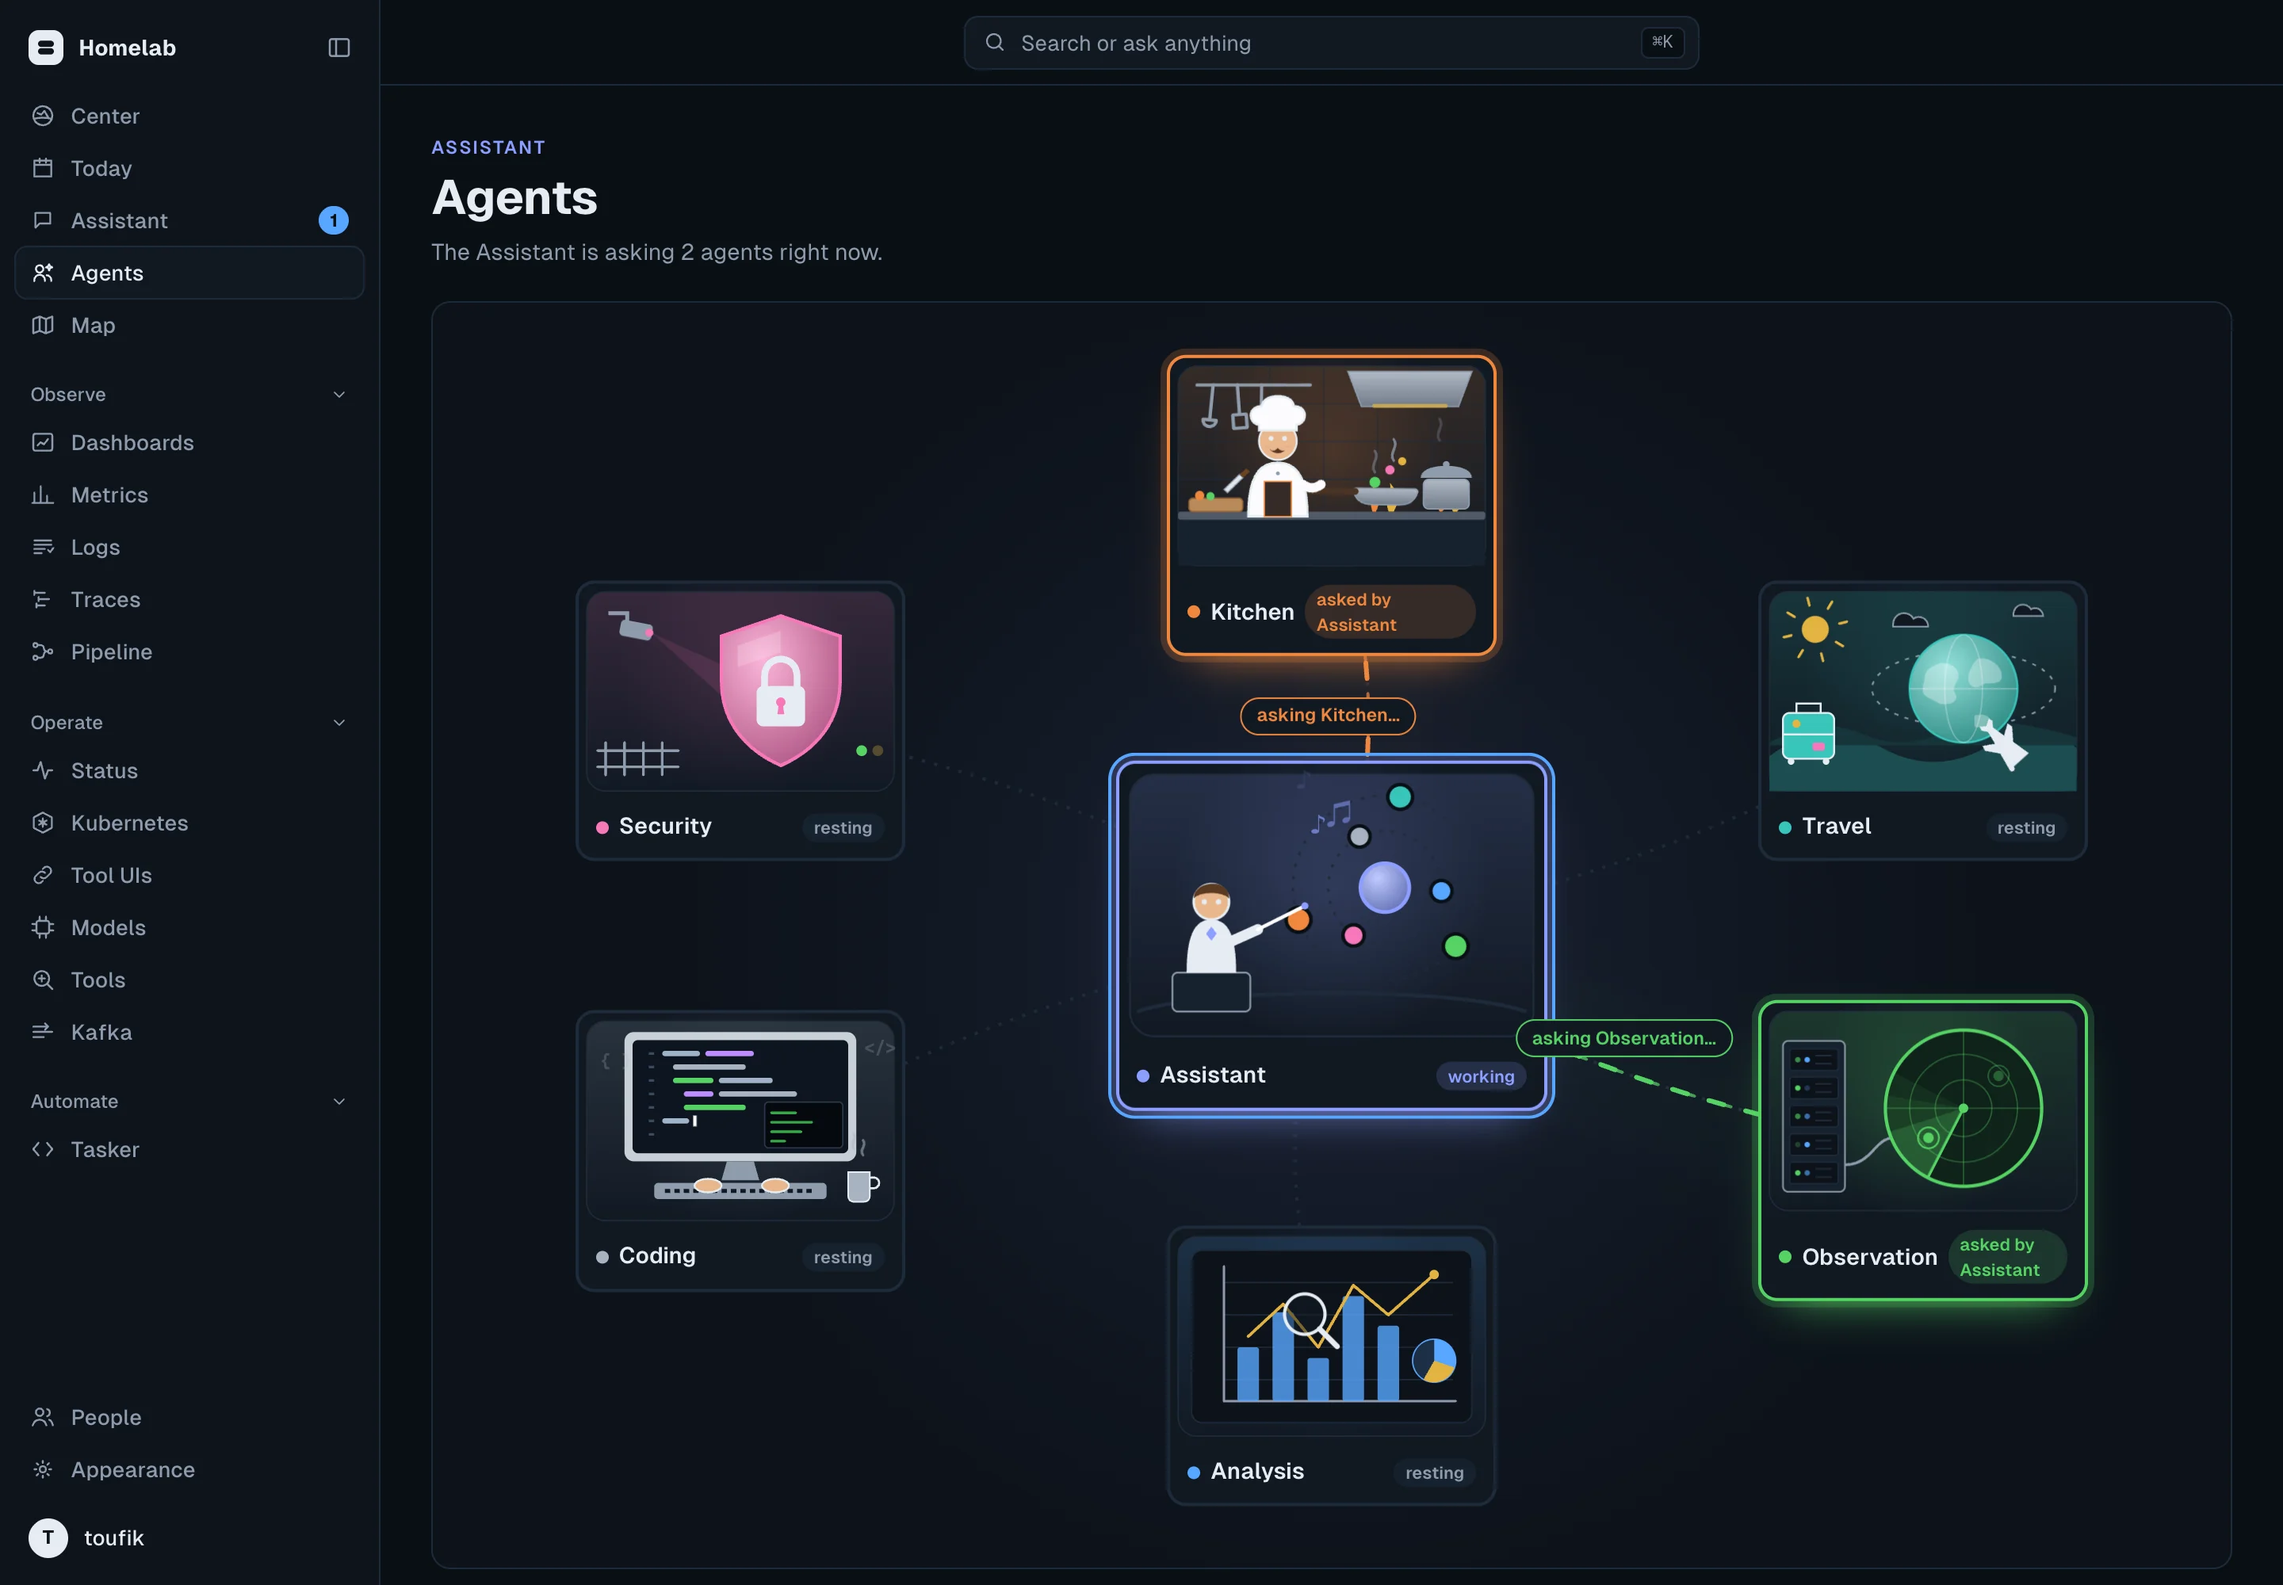
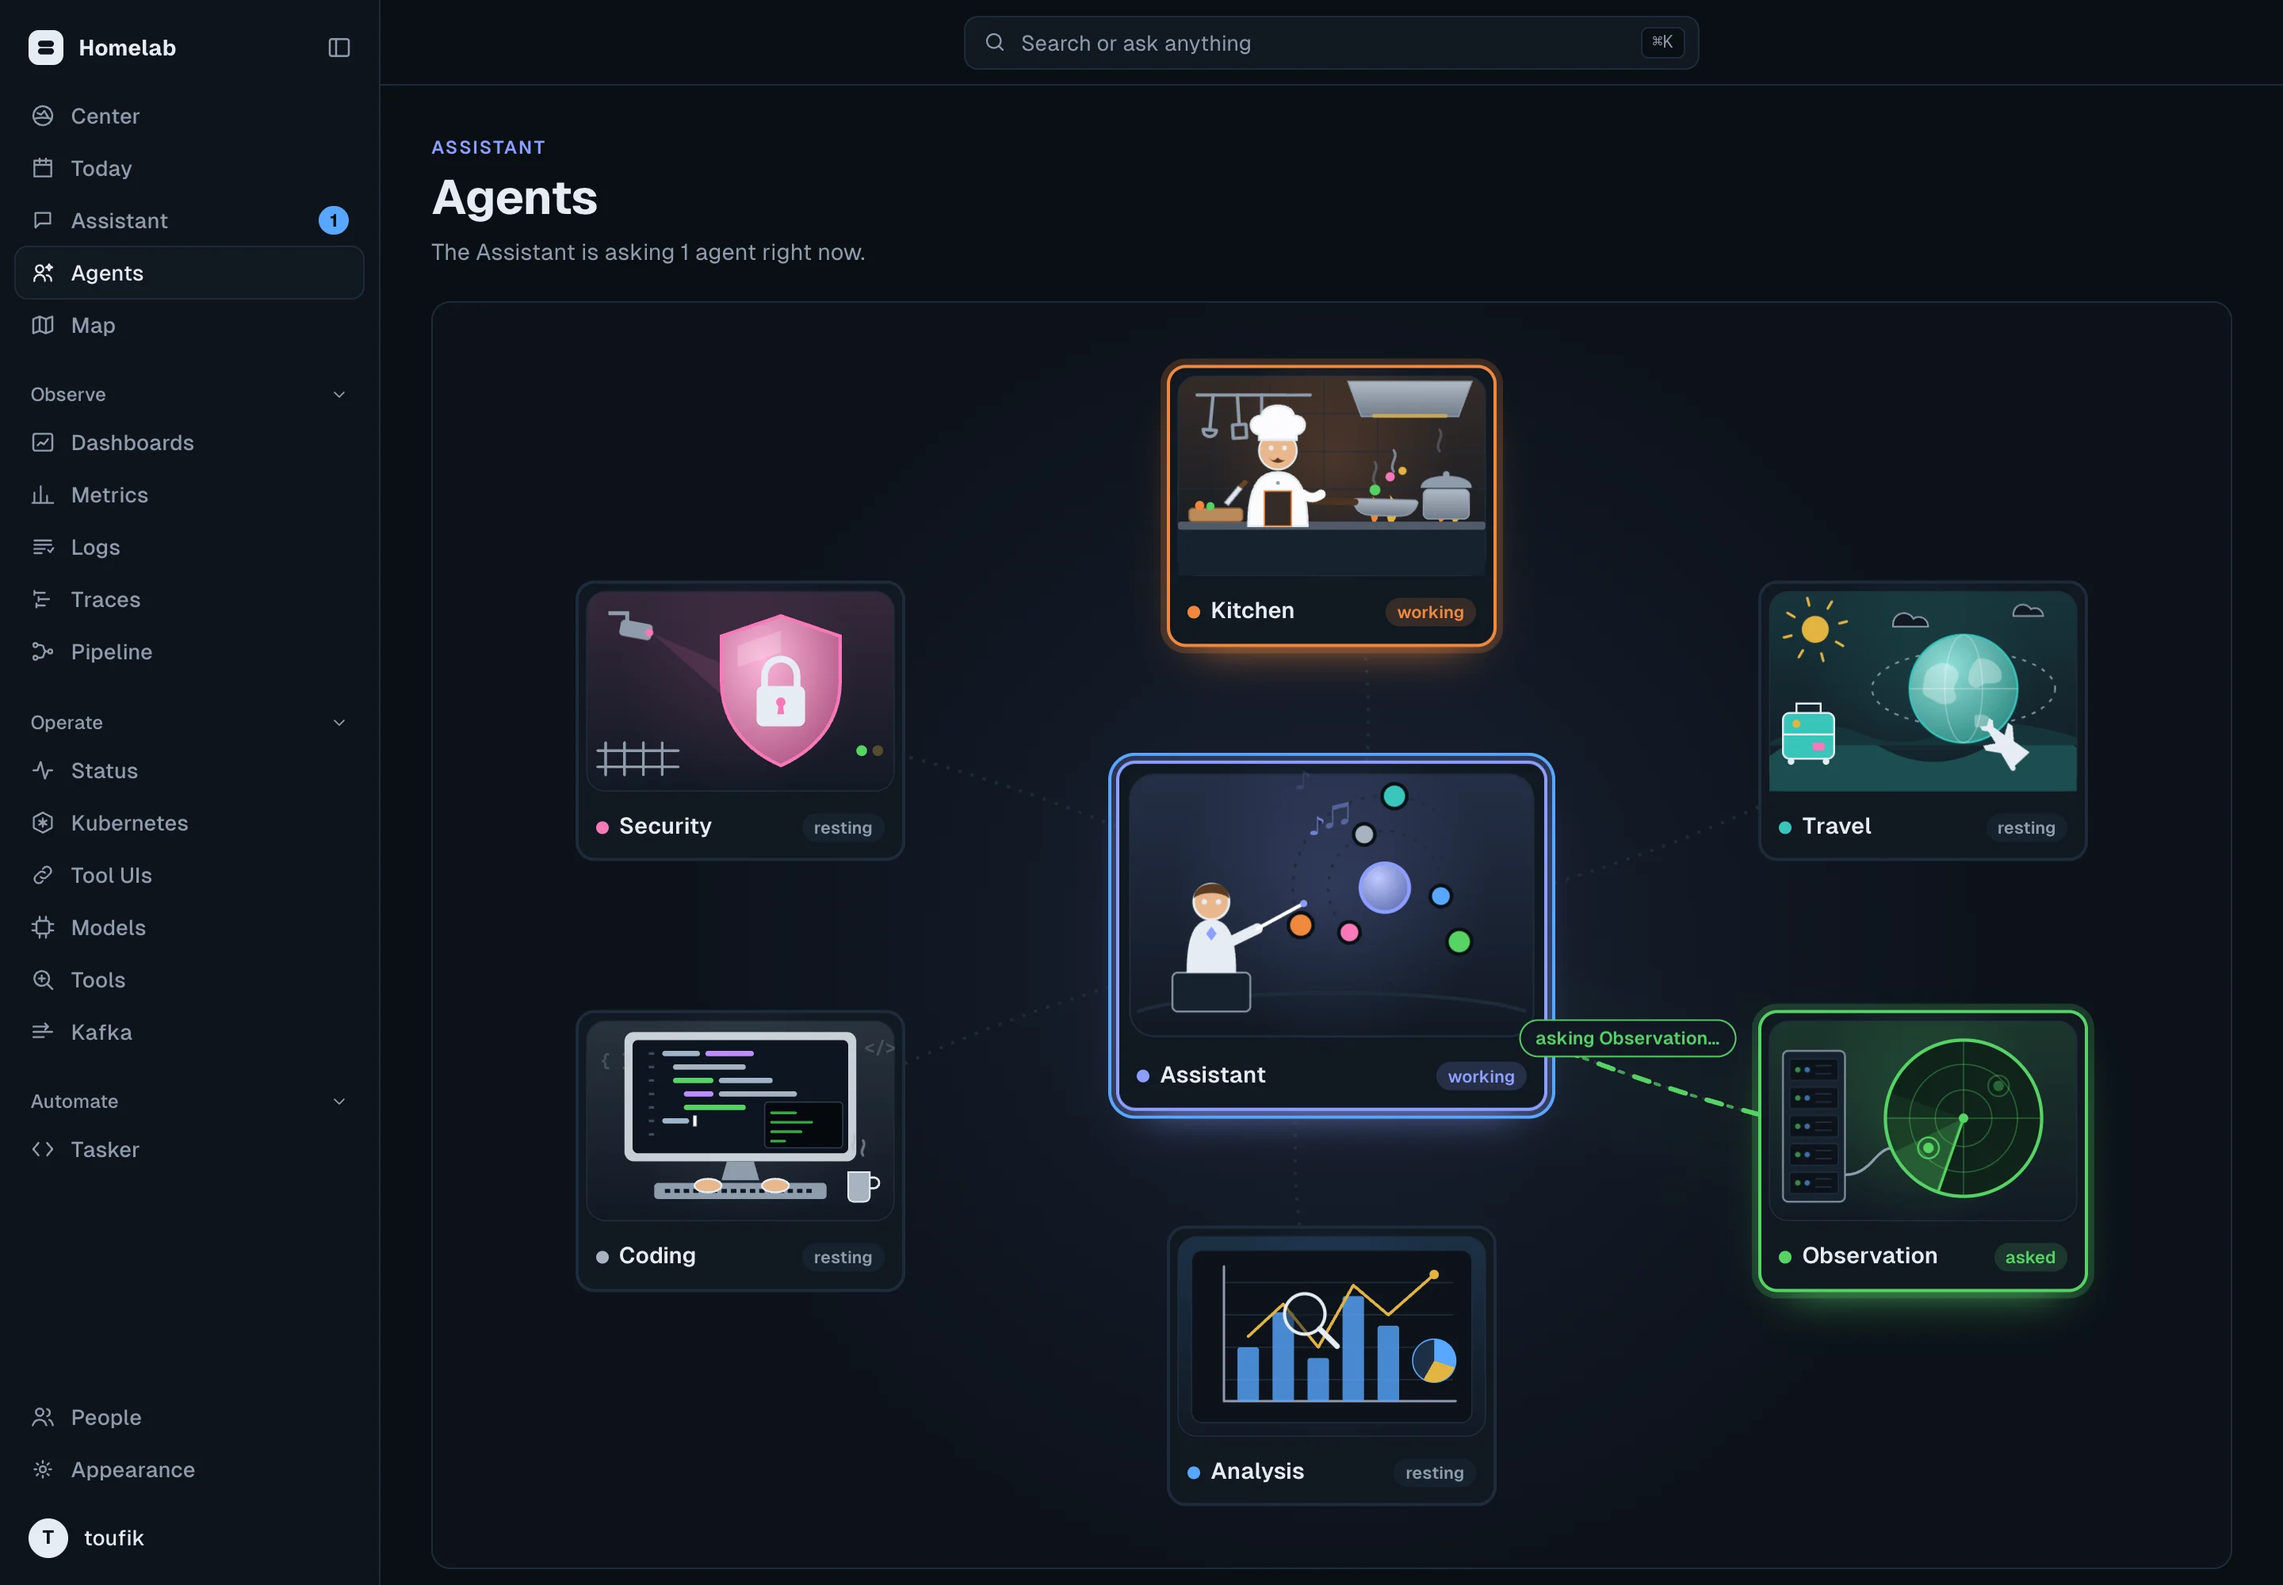
feat(agent): add delegation tracking and display on agents page
- Introduce delegationsFrom and delegationsInProgress functions to parse and track task delegations
- Replace old delegations function with more precise delegation data from Prometheus metrics
- Enhance agents page to show which agents the Assistant is waiting on and tasks delegated to agents
- Update Prometheus queries to include delegation active metrics alongside active request counts
- Modify UI text to better explain live agent activity and delegations visualization
- Improve mood calculation by including delegation counts alongside server active requests
- Update tests to cover new delegation parsing and progress tracking logic
- Bump version from 1.6.0 to 1.7.0

diff --git a/src/app/features/agent/pages/agents-page/agents-page.ts b/src/app/features/agent/pages/agents-page/agents-page.ts
@@ -9,8 +9,10 @@ import { AgentScene } from '../../components/agent-scene/agent-scene';
 import {
   SUPERVISOR,
   activeByAgent,
-  delegations,
+  delegationsFrom,
+  delegationsInProgress,
   moodOf,
+  type Delegation,
   phraseOf,
   type AgentMood,
 } from '../../domain/agent-activity';
@@ -19,6 +21,7 @@ import { agentLook } from '../../domain/agent-looks';
 const POLL_MS = 5_000;
 const ACTIVE_QUERY =
   'sum by (job, service_name) (http_server_active_requests{job=~"(.+/)?agent-.+"})';
+const DELEGATIONS_QUERY = 'sum by (job, service_name, peer) (agent_delegations_active)';
 const NARROW = '(max-width: 767px)';
 
 export interface MapPoint {
@@ -73,7 +76,32 @@ export class AgentsPage {
   private readonly prometheus = inject(PrometheusQueryService);
 
   protected readonly server = signal<Record<string, number>>({});
+  protected readonly serverDelegations = signal<Delegation[]>([]);
   protected readonly serverKnown = signal(false);
+
+  private readonly delegationList = computed<Delegation[]>(() => {
+    const local = this.store.isStreaming()
+      ? delegationsInProgress(
+          this.store.agentName(),
+          [...this.store.messages()].reverse().find((m) => m.role === 'assistant')?.progress,
+        )
+      : [];
+    const all = [...this.serverDelegations()];
+    for (const delegation of local) {
+      if (!all.some((d) => d.from === delegation.from && d.to === delegation.to))
+        all.push(delegation);
+    }
+    return all;
+  });
+
+  protected readonly asking = computed(
+    () =>
+      new Set(
+        this.delegationList()
+          .filter((delegation) => delegation.from === SUPERVISOR)
+          .map((delegation) => delegation.to),
+      ),
+  );
   protected readonly narrow = signal(globalThis.matchMedia?.(NARROW).matches ?? false);
   protected readonly selectedName = signal<string | null>(null);
 
@@ -90,7 +118,9 @@ export class AgentsPage {
       const waitingPlans = this.store.waiting().filter((c) => c.agent === name).length;
       const mood: AgentMood = moodOf({
         localPhase: streaming === name ? this.store.phase() : null,
-        serverActive: this.server()[name] ?? 0,
+        serverActive:
+          (this.server()[name] ?? 0) +
+          this.delegationList().filter((delegation) => delegation.to === name).length,
         waitingPlans,
       });
       return {
@@ -107,13 +137,6 @@ export class AgentsPage {
 
   protected readonly hub = computed(() => this.agents().find((a) => a.name === SUPERVISOR) ?? null);
   protected readonly helpers = computed(() => this.agents().filter((a) => a.name !== SUPERVISOR));
-
-  protected readonly asking = computed(
-    () =>
-      new Set(
-        delegations(Object.fromEntries(this.agents().map((agent) => [agent.name, agent.mood]))),
-      ),
-  );
 
   protected readonly map = computed(() => {
     const { hub, spots } = mapLayout(this.helpers().length, this.narrow());
@@ -156,7 +179,7 @@ export class AgentsPage {
   }
 
   protected stateLabel(mood: AgentMood, asked = false): string {
-    if (asked) return 'asked by Assistant';
+    if (asked) return this.narrow() ? 'asked by Assistant' : 'asked';
     return {
       working: 'working',
       waiting: 'waiting for you',
@@ -166,11 +189,14 @@ export class AgentsPage {
   }
 
   private async poll(): Promise<void> {
-    try {
-      this.server.set(activeByAgent(await this.prometheus.vector(ACTIVE_QUERY)));
-      this.serverKnown.set(true);
-    } catch {
-      this.serverKnown.set(false);
-    }
+    const [active, delegated] = await Promise.allSettled([
+      this.prometheus.vector(ACTIVE_QUERY),
+      this.prometheus.vector(DELEGATIONS_QUERY),
+    ]);
+    if (active.status === 'fulfilled') this.server.set(activeByAgent(active.value));
+    this.serverDelegations.set(
+      delegated.status === 'fulfilled' ? delegationsFrom(delegated.value) : [],
+    );
+    this.serverKnown.set(active.status === 'fulfilled' || delegated.status === 'fulfilled');
   }
 }

diff --git a/src/app/features/agent/domain/agent-activity.spec.ts b/src/app/features/agent/domain/agent-activity.spec.ts
@@ -1,4 +1,11 @@
-import { activeByAgent, delegations, moodOf, phraseOf } from './agent-activity';
+import {
+  activeByAgent,
+  delegationsFrom,
+  delegationsInProgress,
+  moodOf,
+  phraseOf,
+} from './agent-activity';
+import { applyProgress, emptyProgress } from './agent-progress';
 
 describe('agent activity', () => {
   it('works while this browser streams or the server is busy, then waits, then rests', () => {
@@ -26,10 +33,30 @@ describe('agent activity', () => {
     expect(phraseOf('unknown', 'idle')).toBe('Resting');
   });
 
-  it('links the supervisor to the agents working while it works', () => {
-    expect(delegations({ supervisor: 'working', kitchen: 'working', travel: 'idle' })).toEqual([
-      'kitchen',
+  it('reads which agent hands a task to which from the delegations metric', () => {
+    expect(
+      delegationsFrom([
+        { labels: { job: 'agent-supervisor', peer: 'observation' }, value: 1 },
+        { labels: { job: 'homelab/agent-supervisor', peer: 'observation' }, value: 1 },
+        { labels: { job: 'agent-supervisor', peer: 'security' }, value: 0 },
+        { labels: { job: 'agent-analysis', peer: 'coding' }, value: 2 },
+        { labels: { job: 'caddy' }, value: 1 },
+      ]),
+    ).toEqual([
+      { from: 'supervisor', to: 'observation' },
+      { from: 'analysis', to: 'coding' },
     ]);
-    expect(delegations({ supervisor: 'idle', kitchen: 'working' })).toEqual([]);
+  });
+
+  it('reads which agents this browser’s answer is waiting on', () => {
+    const progress = [
+      { kind: 'agent' as const, path: [], name: 'observation', state: 'working' },
+      { kind: 'agent' as const, path: [], name: 'security', state: 'answered' },
+    ].reduce(applyProgress, emptyProgress());
+
+    expect(delegationsInProgress('supervisor', progress)).toEqual([
+      { from: 'supervisor', to: 'observation' },
+    ]);
+    expect(delegationsInProgress(null, progress)).toEqual([]);
   });
 });

diff --git a/src/app/features/agent/domain/agent-activity.ts b/src/app/features/agent/domain/agent-activity.ts
@@ -1,3 +1,4 @@
+import type { ProgressNode } from './agent-progress';
 import type { SwarmPhase } from '@shared/ui/swarm-avatar/swarm-avatar';
 
 export type AgentMood = 'idle' | 'working' | 'waiting' | 'trouble';
@@ -89,9 +90,31 @@ export function phraseOf(agent: string, mood: AgentMood): string {
 
 export const SUPERVISOR = 'supervisor';
 
-export function delegations(moods: Readonly<Record<string, AgentMood>>): string[] {
-  if (moods[SUPERVISOR] !== 'working') return [];
-  return Object.entries(moods)
-    .filter(([name, mood]) => name !== SUPERVISOR && mood === 'working')
-    .map(([name]) => name);
+export interface Delegation {
+  readonly from: string;
+  readonly to: string;
+}
+
+export function delegationsFrom(
+  samples: readonly { labels: Record<string, string>; value: number }[],
+): Delegation[] {
+  const found: Delegation[] = [];
+  for (const sample of samples) {
+    const service = sample.labels['service_name'] ?? sample.labels['job'] ?? '';
+    const from = SERVICE.exec(service)?.[1];
+    const to = sample.labels['peer'];
+    if (!from || !to || !(sample.value > 0)) continue;
+    if (!found.some((d) => d.from === from && d.to === to)) found.push({ from, to });
+  }
+  return found;
+}
+
+export function delegationsInProgress(
+  agent: string | null,
+  progress: ProgressNode | undefined,
+): Delegation[] {
+  if (!agent || !progress) return [];
+  return progress.agents
+    .filter((child) => child.agent && child.state === 'working')
+    .map((child) => ({ from: agent, to: child.agent! }));
 }

diff --git a/src/app/features/agent/pages/agents-page/agents-page.html b/src/app/features/agent/pages/agents-page/agents-page.html
@@ -135,12 +135,11 @@
 
   <p class="note">
     @if (serverKnown()) {
-      Live from the homelab every 5 seconds: an agent works while it answers anyone. A line lights
-      up between the Assistant and an agent working at the same time, which is how the Assistant
-      hands work out.
+      Live from the homelab every 5 seconds: an agent works while it answers anyone, and a line
+      lights up while the Assistant waits on a task it handed to that agent.
     } @else {
-      Shows what this browser is asking. Live activity from the server needs the Metrics or
-      Dashboards page.
+      Shows what this browser is asking, and the agents the Assistant hands tasks to while it
+      answers you. Live activity from everyone needs the Metrics or Dashboards page.
     }
   </p>
 </div>

diff --git a/README.md b/README.md
@@ -134,9 +134,9 @@ Deleting a conversation here removes it from this browser. The server copies exp
 | **Coding**      | An editor typing in colour, a terminal scrolling, hands on the keyboard, coffee steaming        |
 | **Security**    | A camera sweeping, a scan line over a shield, the padlock opening and closing                   |
 
-When the Assistant works at the same time as another agent, the line between them lights up and flows (_"asking Kitchen…"_; on a phone the card says _"asked by Assistant"_). Click an agent for what it is doing, **Ask** and its last conversation or waiting plan.
+While the Assistant waits on a task it handed to an agent, the line between them lights up and flows (_"asking Kitchen…"_; on a phone the card says _"asked by Assistant"_). Click an agent for what it is doing, **Ask** and its last conversation or waiting plan.
 
-An agent works while it answers anyone: the page reads the agents' open requests from Prometheus every 5 seconds (`http_server_active_requests` by `agent-<name>`), for people who can open Metrics or Dashboards; for others it shows what their own browser is asking. The supervisor does not yet say which agent it is asking, so a line means "both busy at once", which is how it hands work out. Animations stop when the device asks for reduced motion.
+An agent works while it answers anyone: the page reads the agents' open requests from Prometheus every 5 seconds (`http_server_active_requests` by `agent-<name>`), for people who can open Metrics or Dashboards; for others it shows what their own browser is asking. Lines are exact: agent-runtime counts each task it is waiting on (`agent_delegations_active` by `peer`), and the answer streaming in this browser says which agents it asked. Animations stop when the device asks for reduced motion.
 
 <img src="docs/screenshots/agents.webp" alt="The Agents map: the Assistant conducting in the middle, lines flowing to Kitchen (a chef at work) and Observation (a radar sweeping), Security, Travel, Coding and Analysis resting around it" />
 
